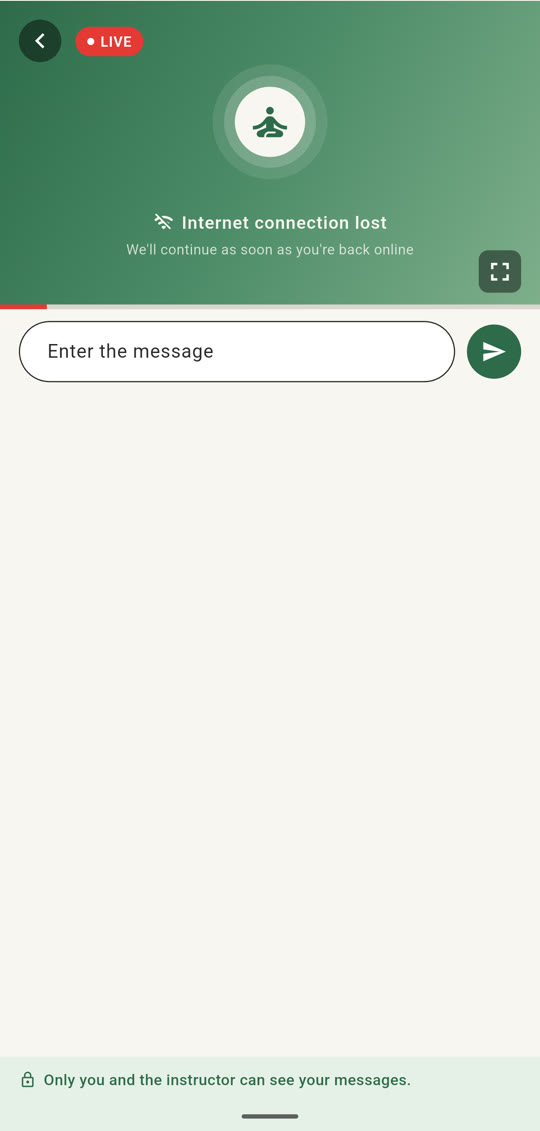
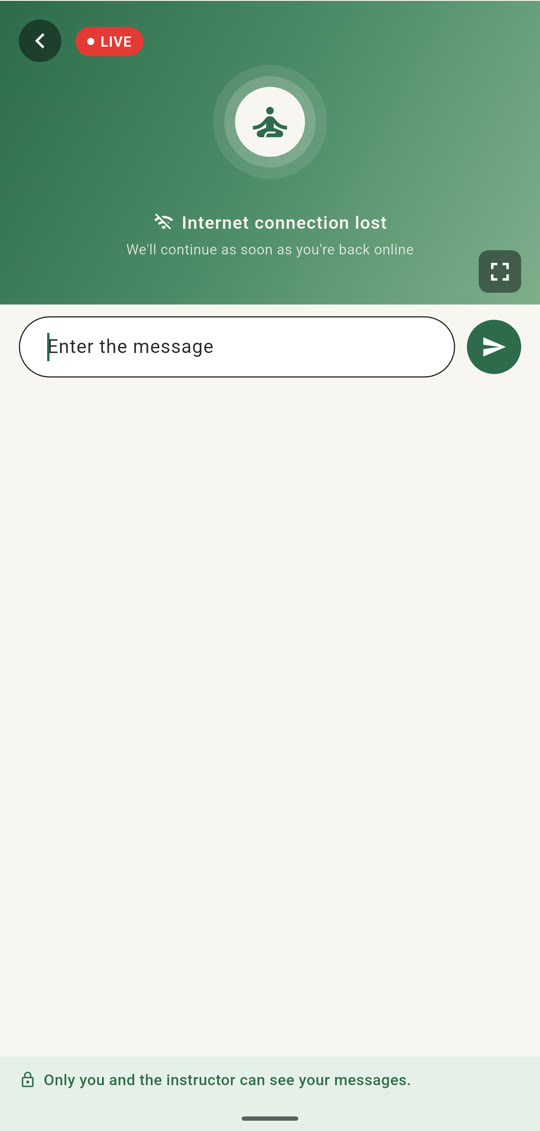
Remove time label and progress bar; refresh screenshots; detailed README
- Hide the mm:ss time label and red progress bar (on request).
- Retake all class-screen screenshots without them; replace the
  "reconnected" shot with the on-device "Weak internet connection" one.
- README: reading guide, Appendix A (build it step by step, with code)
  and Appendix B (iteration log: every attempt, what leaked, measurements).

Changed region(s): [[0.0, 0.2476, 1.0, 0.3404], [0.4444, 0.9593, 0.5333, 0.9903]]

diff --git a/lib/main.dart b/lib/main.dart
@@ -249,7 +249,6 @@ class _LiveClassPageState extends State<LiveClassPage> {
                   child: Column(
                     children: [
                       SizedBox(height: topPad + inlineH),
-                      _ProgressBar(controller: _controller),
                       Padding(
                         padding: const EdgeInsets.fromLTRB(16, 10, 16, 0),
                         child: _MessageInput(
@@ -499,29 +498,6 @@ class _PlayerControlsState extends State<_PlayerControls> {
               ),
             ),
             Positioned(left: pad + 48, top: pad + 6, child: const _LiveBadge()),
-            // Time label: only visible once the video is showing, but kept
-            // alive while hidden so it never flashes "00:00" when it reappears.
-            Positioned(
-              left: pad,
-              bottom: pad,
-              child: Visibility(
-                visible: !_covered,
-                maintainState: true,
-                child: StreamBuilder<YoutubeVideoState>(
-                  stream: widget.controller.videoStateStream,
-                  builder: (context, snap) => Text(
-                    '${_fmt(snap.data?.position ?? Duration.zero)} / '
-                    '${_fmt(widget.controller.value.metaData.duration)}',
-                    style: const TextStyle(
-                      color: Colors.white,
-                      fontSize: 13,
-                      fontWeight: FontWeight.w500,
-                      shadows: [Shadow(blurRadius: 4, color: Colors.black54)],
-                    ),
-                  ),
-                ),
-              ),
-            ),
             Positioned(
               right: pad,
               bottom: pad - 6,
@@ -546,12 +522,6 @@ class _LoaderMessage {
   /// Bold line. Null → the breathing cue ("Breathe in… / Breathe out…").
   final String? headline;
   final String sub;
-}
-
-String _fmt(Duration d) {
-  final m = d.inMinutes.toString().padLeft(2, '0');
-  final s = (d.inSeconds % 60).toString().padLeft(2, '0');
-  return '$m:$s';
 }
 
 class _Cover extends StatelessWidget {
@@ -776,30 +746,6 @@ class _LiveBadge extends StatelessWidget {
 }
 
 // ───────────────────────── Below the video ─────────────────────────
-
-class _ProgressBar extends StatelessWidget {
-  const _ProgressBar({required this.controller});
-
-  final YoutubePlayerController controller;
-
-  @override
-  Widget build(BuildContext context) {
-    return StreamBuilder<YoutubeVideoState>(
-      stream: controller.videoStateStream,
-      builder: (context, snap) {
-        final total = controller.value.metaData.duration.inMilliseconds;
-        final pos = snap.data?.position.inMilliseconds ?? 0;
-        final fraction = total > 0 ? (pos / total).clamp(0.0, 1.0) : 0.0;
-        return LinearProgressIndicator(
-          value: fraction,
-          minHeight: 4,
-          color: liveRed,
-          backgroundColor: const Color(0xFFD9D6D0),
-        );
-      },
-    );
-  }
-}
 
 class _MessageInput extends StatelessWidget {
   const _MessageInput({required this.controller, required this.onSend});

diff --git a/README.md b/README.md
@@ -15,12 +15,12 @@ A throwaway Flutter (Android) prototype that proves we can play a **YouTube vide
   <tr>
     <td align="center" width="33%"><img src="docs/screenshots/1-home.jpg" width="240" alt="Home screen with four Join buttons" /><br/><sub><b>Home</b>: join on time or late</sub></td>
     <td align="center" width="33%"><img src="docs/screenshots/2-loader.jpg" width="240" alt="Breathing loader while the class starts" /><br/><sub><b>Loader</b>: guided breathing while the player warms up</sub></td>
-    <td align="center" width="33%"><img src="docs/screenshots/3-playing.jpg" width="240" alt="Video playing with no YouTube UI" /><br/><sub><b>Class</b>: video with no YouTube UI ("Join 5 mins late" → 05:05)</sub></td>
+    <td align="center" width="33%"><img src="docs/screenshots/3-playing.jpg" width="240" alt="Video playing with no YouTube UI" /><br/><sub><b>Class</b>: video with no YouTube UI</sub></td>
   </tr>
   <tr>
     <td align="center"><img src="docs/screenshots/4-message.jpg" width="240" alt="Typing a message to the instructor" /><br/><sub><b>Message</b>: privacy banner stays above the keyboard</sub></td>
     <td align="center"><img src="docs/screenshots/5-offline.jpg" width="240" alt="Internet connection lost message" /><br/><sub><b>Offline</b>: "Internet connection lost"</sub></td>
-    <td align="center"><img src="docs/screenshots/6-reconnected.jpg" width="240" alt="Connection is back, resuming class" /><br/><sub><b>Reconnected</b>: "Connection is back, resuming class…"</sub></td>
+    <td align="center"><img src="docs/screenshots/6-weak.jpg" width="240" alt="Weak internet connection message" /><br/><sub><b>Weak connection</b>: online but still stalled</sub></td>
   </tr>
   <tr>
     <td align="center" colspan="3"><img src="docs/screenshots/7-fullscreen.jpg" width="720" alt="Fullscreen landscape playback" /><br/><sub><b>Fullscreen</b>: landscape, immersive, still no YouTube UI</sub></td>
@@ -32,6 +32,11 @@ A throwaway Flutter (Android) prototype that proves we can play a **YouTube vide
 ---
 
 Everything lives in **one file, `lib/main.dart`**, so it's easy to lift into the real product. This document explains *what* we did, *why* each piece exists, and *what to keep in mind when porting it*.
+
+**Reading guide**
+- Just want the rules? Read [§3 The core problem](#3-the-core-problem) and [§4 Techniques](#4-techniques-and-why-each-exists).
+- Rebuilding this somewhere else? Follow [Appendix A: Build it step by step](#appendix-a-build-it-step-by-step). It walks through the whole thing in build order, with the code.
+- Want to know what we tried and why it ended up this way? See [Appendix B: How we got here](#appendix-b-how-we-got-here-iteration-log), the iteration log with every dead end and measurement.
 
 > ⚠ **Policy note — read first.** Hiding YouTube's branding, controls and links breaks the
 > [YouTube API Services Developer Policies](https://developers.google.com/youtube/terms/developer-policies)
@@ -47,7 +52,7 @@ Everything lives in **one file, `lib/main.dart`**, so it's easy to lift into the
 | Screen | Behaviour |
 |---|---|
 | **Home** | Blank page with four buttons: *Join class* (00:00), *Join 2:30 mins late* (02:30), *Join 5 mins late* (05:00), *Join 08:15 mins late* (08:15). |
-| **Live class** | Matches the design mock: video at the top with a back button, red **LIVE** pill, `mm:ss / mm:ss` time, fullscreen button, thin red progress bar, message box with a green send button, and the *"Only you and the instructor can see your messages"* banner, which stays above the keyboard. |
+| **Live class** | Matches the design mock: video at the top with a back button, red **LIVE** pill, fullscreen button, message box with a green send button, and the *"Only you and the instructor can see your messages"* banner, which stays above the keyboard. |
 | **Loading** | A green panel with a meditating figure inside a breathing circle (*Breathe in… / Breathe out…*, ~4 s per breath). It covers the video until YouTube's own UI has gone. |
 | **Network trouble** | The same loader, with a clear message (see [4.9](#49-network-problems-clear-messages-and-self-recovery)). |
 | **Fullscreen** | Landscape and immersive, video only. Back or the exit button returns to portrait. |
@@ -114,7 +119,7 @@ _controller.webViewController.setNavigationDelegate(
 ### 4.3 Overlays MUST go through `controlsBuilder` (gotcha!)
 On Android and iOS, `youtube_player_iframe` renders the WebView inside an **`OverlayPortal` above the whole page**. Anything you put on top of `YoutubePlayer` in a normal `Stack` is drawn **underneath** the video and is invisible. That's why our back button, LIVE pill and cover didn't show at first.
 
-✅ Everything drawn over the video (cover, loader, back, LIVE, time, fullscreen) is returned from **`YoutubePlayer(controlsBuilder: ...)`**, which the package draws above the WebView.
+✅ Everything drawn over the video (cover, loader, back, LIVE, fullscreen) is returned from **`YoutubePlayer(controlsBuilder: ...)`**, which the package draws above the WebView.
 
 ### 4.4 Cover the player whenever YouTube would show UI
 `_PlayerControls` listens to `controller.stream` and shows an opaque cover:
@@ -127,8 +132,6 @@ On Android and iOS, `youtube_player_iframe` renders the WebView inside an **`Ove
 | `ended` | video thumbnail (hides YouTube's end-screen suggestions) |
 | `playing` after a pause | stays up **1.2 s more** (`_settle`): YouTube's pause bar *fades* out after resuming |
 | `playing` after buffering | stays up **5 s more** (`_afterBuffering`): YouTube keeps its overlay up ~4 s after a stall (measured: still visible at 4.0 s, gone by 4.25 s) |
-
-The time label stays mounted while hidden (`Visibility(maintainState: true)`); otherwise it flashes `00:00` when it reappears.
 
 How the stall was reproduced: start playback, then `adb shell svc wifi disable && adb shell svc data disable` until the player logs `buffering` (~30–60 s, once the buffer drains), re-enable both, and screen-record the recovery. In debug builds every state change is printed as `[player] state=...`.
 
@@ -206,7 +209,7 @@ Total wait now: ~1–1.7 s boot + 4.5 s intro hold.
 | `_PlayerControls` | Everything drawn over the video; cover logic (4.4), intro hold (4.6), no-pause (4.7), network messages and reconnect (4.9). |
 | `_Cover` / `_BreathingLoader` / `_LoaderMessage` | Loader (breathing, `_half` = 2 s in / 2 s out) with the current message, or end-of-video thumbnail. |
 | `_HomePageState._warmUp` | Hidden pre-warm WebView (4.10). |
-| `_ProgressBar`, `_MessageInput`, `_PrivacyBanner`, `_LiveBadge`, `_GlassButton` | UI from the design mock. Messages are **not sent anywhere** yet (field just clears). |
+| `_MessageInput`, `_PrivacyBanner`, `_LiveBadge`, `_GlassButton` | UI from the design mock. Messages are **not sent anywhere** yet (field just clears). |
 
 Tunables:
 
@@ -241,7 +244,7 @@ Status of checks on the test device (Nothing A024, Android 17):
 - ✅ Mid-class buffering stall (network cut) → "Internet connection lost" → "Connection is back" → clean video
 - ✅ Joining while offline → "Internet connection lost" → player restarts on reconnect, playing ~5 s later
 - ✅ Pre-warm: first join tap → playing 1.7 s (was 2.3 s)
-- ⚠ **"Weak internet connection"** (online but stalling) was **not** tested: there's no way to throttle the phone's network without root. Only the offline path was exercised.
+- ✅ **"Weak internet connection"** seen on device: right after the network came back, while YouTube was still stalled (online + buffering). A genuinely slow connection couldn't be simulated (no way to throttle the phone's network without root).
 - ✅ No Flutter exceptions in logs
 - ⚠ **Audio returning after unmute was not checked by ear.** Please confirm.
 - ⚠ Not tested on iOS (the package behaves differently there; e.g. its navigation handling and OverlayPortal paths).
@@ -257,7 +260,7 @@ Status of checks on the test device (Nothing A024, Android 17):
 - **Recovery after a long outage can be slow:** in one test YouTube took ~34 s after the network returned to resume (its own retry back-off), even with our `playVideo()` nudge. A real product may want a "Reconnect" fallback that restarts the player after N seconds.
 - **The URL is not truly secret:** the video ID is in the app binary and in network traffic. Fine for "no way from the UI"; not DRM.
 - **Muted autoplay at 00:00** loses the first 4.5 s of the video (see 4.6).
-- Time label is white on video; hard to read on bright scenes (could add a bottom gradient).
+- The design mock's `mm:ss / mm:ss` time label and red progress bar were removed on request, so there's no visible playback position (like a real live stream). Re-adding them is easy: `controller.videoStateStream` gives the position and `controller.value.metaData.duration` the length.
 - The `LIVE` pill is decorative; this is a VOD.
 - Release build is signed with the **debug key** (Flutter template default).
 
@@ -300,3 +303,236 @@ flutter pub get
 flutter run -d <device-id>          # debug on a connected phone
 flutter build apk --release         # → build/app/outputs/flutter-apk/app-release.apk
 ```
+
+---
+
+## Appendix A: Build it step by step
+
+This is the order to rebuild the feature in, with the code that does each part. Every step fixes something that **actually leaked** on the device; the "why" for each is in §4, and the story of how we found it is in Appendix B.
+
+### Step 1: Project and packages
+```bash
+flutter create --platforms android --project-name youtube_player_app .
+flutter pub add youtube_player_iframe webview_flutter connectivity_plus
+```
+In `android/app/src/main/AndroidManifest.xml`, inside `<manifest>`:
+```xml
+<uses-permission android:name="android.permission.INTERNET"/>
+```
+
+### Step 2: Create the controller (keyless, muted, early start, links blocked)
+```dart
+final controller = YoutubePlayerController(        // NOT .fromVideoId(): no key (step 8)
+  params: const YoutubePlayerParams(
+    showControls: false,                // controls=0
+    showFullscreenButton: false,
+    showVideoAnnotations: false,
+    strictRelatedVideos: true,
+    enableCaption: false,
+    pointerEvents: PointerEvents.none,  // the iframe never gets touches
+    mute: true,                         // unmuted when the intro cover lifts (step 6)
+  ),
+);
+
+// Start 4.5 s early so the intro hold ends exactly at the requested time.
+controller.loadVideoById(
+  videoId: videoId,
+  startSeconds: (startSeconds - 4.5).clamp(0, double.infinity).toDouble(),
+);
+
+// No link inside the player may open anything (logo, title, share…).
+controller.webViewController.setNavigationDelegate(
+  NavigationDelegate(onNavigationRequest: (_) => NavigationDecision.prevent),
+);
+```
+
+### Step 3: Fixed-size player, only scaled (never resized)
+Lay the player out once at a landscape-sized resolution and scale it into place. Same widget, same tree position, in both inline and fullscreen:
+```dart
+final size = MediaQuery.sizeOf(context);
+final baseW = size.longestSide, baseH = baseW * 9 / 16;       // fixed layout size
+final inlineW = size.shortestSide, inlineH = inlineW * 9 / 16;
+
+final scale = fullscreen
+    ? min(size.width / baseW, size.height / baseH)
+    : inlineW / baseW;
+final rect = fullscreen
+    ? Rect.fromCenter(center: size.center(Offset.zero),
+                      width: baseW * scale, height: baseH * scale)
+    : Rect.fromLTWH(0, topPadding, inlineW, inlineH);
+
+Positioned.fromRect(
+  rect: rect,
+  child: FittedBox(
+    fit: BoxFit.fill,
+    alignment: Alignment.topLeft,
+    child: SizedBox(
+      width: baseW, height: baseH,
+      child: YoutubePlayer(
+        key: ObjectKey(controller),            // new controller → new player (step 9)
+        controller: controller,
+        autoFullScreen: false,                 // we do fullscreen ourselves
+        enableFullScreenOnVerticalDrag: false,
+        backgroundColor: Colors.transparent,   // step 8
+        controlsBuilder: (context, _) => ..., // step 4
+      ),
+    ),
+  ),
+);
+```
+Fullscreen is just orientation + system UI + a new `rect`/`scale`. Never call the package's `enterFullScreen()`, because it resizes the WebView:
+```dart
+SystemChrome.setPreferredOrientations(fs
+    ? [DeviceOrientation.landscapeLeft, DeviceOrientation.landscapeRight]
+    : [DeviceOrientation.portraitUp]);
+SystemChrome.setEnabledSystemUIMode(
+    fs ? SystemUiMode.immersiveSticky : SystemUiMode.edgeToEdge);
+setState(() => _fullscreen = fs);
+```
+Wrap the page in `PopScope(canPop: !_fullscreen, ...)` so Back leaves fullscreen first.
+
+### Step 4: Draw everything on top through `controlsBuilder`, with the scale undone
+On phones the WebView sits in an overlay **above the page**, so a normal `Stack` over `YoutubePlayer` is hidden underneath it. Return all overlays from `controlsBuilder`. That layer inherits our scale, so undo it to keep buttons at normal size:
+```dart
+controlsBuilder: (context, _) => FittedBox(
+  fit: BoxFit.fill,
+  alignment: Alignment.topLeft,
+  child: SizedBox(
+    width: baseW * scale, height: baseH * scale,   // real on-screen size
+    child: _PlayerControls(...),                    // cover + back + LIVE + fullscreen
+  ),
+),
+```
+
+### Step 5: The cover state machine (`_PlayerControls`)
+Listen to `controller.stream`. Cover **immediately** on anything that isn't `playing`, and uncover only after a delay that outlasts YouTube's own fade:
+```dart
+void _onState(PlayerState s) {
+  final wasBuffering = _state == PlayerState.buffering;
+  _state = s;
+  if (s == PlayerState.playing) {
+    if (!_everPlayed) {                                   // first start
+      _everPlayed = true;
+      _uncover ??= Timer(_introHold /*4.5 s*/, () { controller.unMute(); _reveal(); });
+    } else {                                              // resume
+      _uncover ??= Timer(wasBuffering ? _afterBuffering /*5 s*/ : _settle /*1.2 s*/, _reveal);
+    }
+  } else {                                                // buffering / paused / ended / …
+    _uncover?.cancel(); _uncover = null; _covered = true;
+    if (_everPlayed && s == PlayerState.buffering) _stalled = true;
+  }
+  if (s == PlayerState.paused && appIsInForeground) controller.playVideo(); // no pause
+}
+```
+The cover itself is wrapped in `AbsorbPointer`, so taps on the video do nothing.
+
+### Step 6: Muted intro hold
+This is already in steps 2 and 5: start 4.5 s early, muted, keep the cover up for 4.5 s after the first `playing`, then `unMute()`. **Don't** seek to correct the position afterwards (see 4.6).
+
+### Step 7: No pause, ever
+- `AbsorbPointer` on the video (step 5)
+- `playVideo()` whenever `paused` arrives while the app is in the foreground (step 5)
+- `AppLifecycleListener(onResume: () => controller.playVideo())`: Android pauses the WebView in the background
+
+### Step 8: Loader from the first frame
+With a keyed controller (`.fromVideoId`), the package paints its own thumbnail on top of everything while booting. With **no key** and `backgroundColor: Colors.transparent` (steps 2 and 3), that boot layer is invisible and our loader shows from frame one.
+
+### Step 9: Network messages and recovery
+```dart
+final net = Connectivity();
+net.checkConnectivity().then(_onNet);
+_netSub = net.onConnectivityChanged.listen(_onNet);
+
+void _onNet(List<ConnectivityResult> r) {
+  final offline = r.every((c) => c == ConnectivityResult.none);
+  if (_offline && !offline) {
+    _everPlayed
+        ? controller.playVideo()           // mid-class: nudge YouTube to resume
+        : widget.onReconnectBeforeStart(); // never started: rebuild the player
+  }
+  setState(() => _offline = offline);
+}
+```
+The rebuild (in `LiveClassPage`):
+```dart
+void _restartPlayer() {
+  final old = _controller;
+  setState(() => _controller = _createController()); // YoutubePlayer is keyed by it
+  old.close();
+}
+```
+Loader message priority: offline → **Internet connection lost**; stalled and still buffering → **Weak internet connection**; stalled but playing again (5 s hold) → **Connection is back**; otherwise the breathing cue.
+
+### Step 10: The breathing loader
+An `AnimationController(duration: 2 s)..repeat(reverse: true)` drives:
+- three circles whose sizes and opacities follow `Curves.easeInOut`
+- a `self_improvement` icon in the middle
+- a headline that switches between *Breathe in… / Breathe out…* on the animation direction (`AnimatedSwitcher`), unless a network headline overrides it
+
+The whole thing is the `_Cover` while waiting. After the video ends, the cover shows the thumbnail instead.
+
+### Step 11: Pre-warm on the screen before joining
+```dart
+late final WebViewController _warmUp = WebViewController()
+  ..setJavaScriptMode(JavaScriptMode.unrestricted)
+  ..setNavigationDelegate(NavigationDelegate(
+      onNavigationRequest: (r) => r.url.contains('/embed/')
+          ? NavigationDecision.navigate : NavigationDecision.prevent))
+  ..loadRequest(Uri.parse('https://www.youtube-nocookie.com/embed/$videoId?controls=0'));
+```
+It's never displayed. It just starts the WebView engine and caches YouTube's scripts.
+
+### Step 12: Page layout around the video
+The page is a `Stack`:
+1. A `Column`, `Offstage` in fullscreen, containing:
+   - a spacer the height of the inline video
+   - the message row (pill `TextField` + round green send button)
+   - a `Spacer`
+   - the privacy banner (bottom padding = system inset, so it sits above the keyboard)
+2. The positioned video from step 3.
+
+### Step 13: Verify on a real device
+Use the screen-record → frame contact-sheet method in §6 for:
+- every start path (on time and late)
+- pause/resume
+- fullscreen in and out
+- a mid-class stall
+- joining offline
+
+If any frame shows YouTube UI, measure how long it stays and adjust the matching hold.
+
+---
+
+## Appendix B: How we got here (iteration log)
+
+Each row is one round of build → test on the phone → look at what leaked. Timings come from screen recordings split into 4–8 fps frame sheets, plus `[player] +ms state=…` logs.
+
+| # | What we tried | What we saw on the device | What we changed |
+|---|---|---|---|
+| 1 | Plain `youtube_player_iframe` with the video, autoplay | Plays, with full YouTube UI | Baseline |
+| 2 | `controls=0` + `pointerEvents: none` + `IgnorePointer`, a thumbnail cover when not playing | Pause bar ("More videos", link, logo) still flashed | Cover on pause; tap toggled play/pause |
+| 3 | Blocked the WebView `NavigationDelegate` | Logo/title/share taps could open YouTube via `url_launcher` | All navigation prevented |
+| 4 | Built the design mock (back, LIVE, time, fullscreen) in a `Stack` over the player | **None of our overlays showed**; the video was on top | Found the package's `OverlayPortal`; moved everything into `controlsBuilder` (4.3) |
+| 5 | Resume after pause | YouTube's pause bar fades out *after* playback resumes | 1.2 s `_settle` before uncovering |
+| 6 | Package fullscreen | Leaving fullscreen showed title + link + logo + pause icon for **~6–7 s** (measured frame by frame) | Fixed-size player that is only scaled; our own fullscreen (4.5) |
+| 7 | "No pause at all" request | — | Tap does nothing; auto-resume on `paused`; resume on app foreground |
+| 8 | Start of playback, frame by frame | Title bar for ~4 s after `playing` | Cover for 4.5 s after the first `playing` |
+| 9 | Fix the lost first 4.5 s by **seeking** back after the hold | Seek brought the title + pause icon back for another 3–4 s | ❌ Reverted |
+| 10 | Start **4.5 s early, muted**, then just unmute | Clean reveal exactly at the requested time | ✅ Kept (4.6) |
+| 11 | Spinner → yoga breathing loader | Package's own thumbnail covered our loader for ~2.5 s while booting | Keyless controller + transparent `backgroundColor` (4.8) |
+| 12 | Time label hidden while covered | Flashed `00:00` when it reappeared | Kept mounted with `maintainState` (label later removed on request) |
+| 13 | User screenshot: YouTube UI visible **while buffering** | Mid-class stall shows YouTube's full overlay + spinner | Cover on `buffering` too |
+| 14 | Forced stall (Wi-Fi + data off until `buffering`, then back on) with a 4 s hold | One frame of overlay at 4.0 s, gone by 4.25 s | `_afterBuffering` = 5 s |
+| 15 | Try to shorten the 4.5 s intro: reveal after 0.8 s with a **header band** over the title strip | Band hid the title, but a **centre pause icon and "More videos" chip** showed for ~3 s | ❌ Reverted; the overlay is full-player (measured: icon/chip gone +3.6 s, title +4.2 s) |
+| 16 | Measure boot time (`[player] +ms` logs) | Tap → `playing`: 2.3 s first join, 0.8–1.5 s later | Hidden pre-warm WebView on Home → first join 1.7 s (4.10) |
+| 17 | Join while offline, then reconnect | "Internet connection lost" showed, but after reconnect it was **stuck forever** (player script never loaded) | Rebuild the controller on reconnect if never played (4.9) |
+| 18 | Mid-class stall with the new messages | Offline → "Internet connection lost"; back online but still stalled → "Weak internet connection"; → "Connection is back" → clean video | ✅ |
+| 19 | UI trims on request | — | Removed the time label and red progress bar |
+
+**Tooling used throughout:**
+- `flutter run` on a USB-connected phone, plus `flutter analyze`
+- `adb shell input tap/text/keyevent` to drive the app
+- `adb shell screenrecord` + `ffmpeg` (`fps=4|8`, `crop`, `tile`) for frame-by-frame contact sheets
+- `adb exec-out screencap` for screenshots
+- `adb shell svc wifi|data disable/enable` to simulate network loss
+- `debugPrint('[player] …')` logs read from the `flutter run` output
